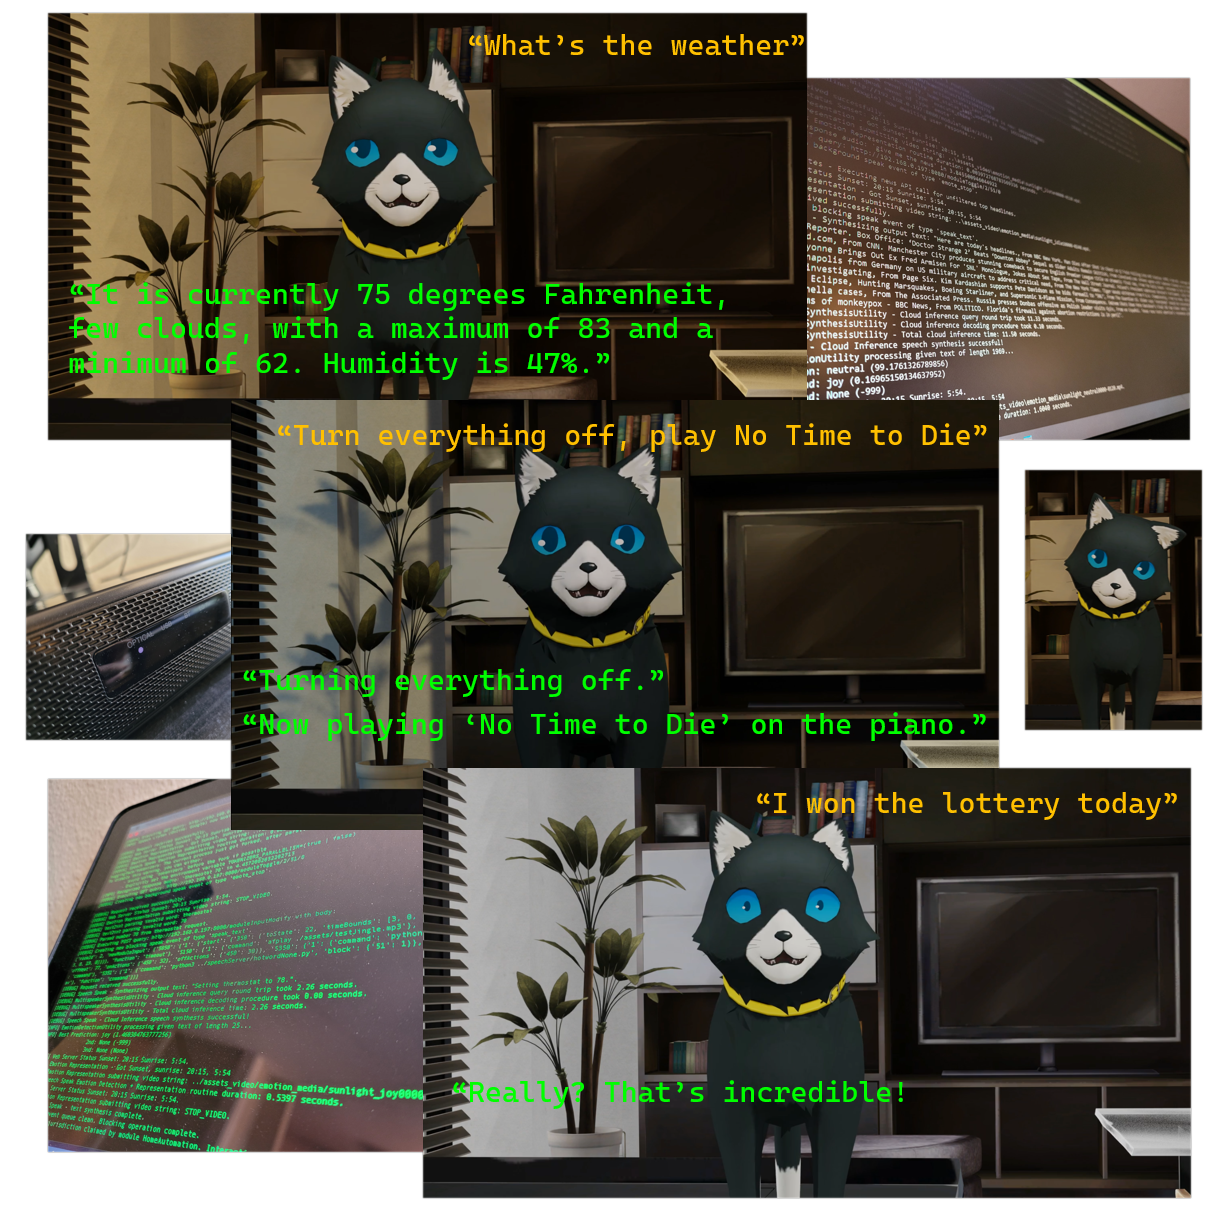
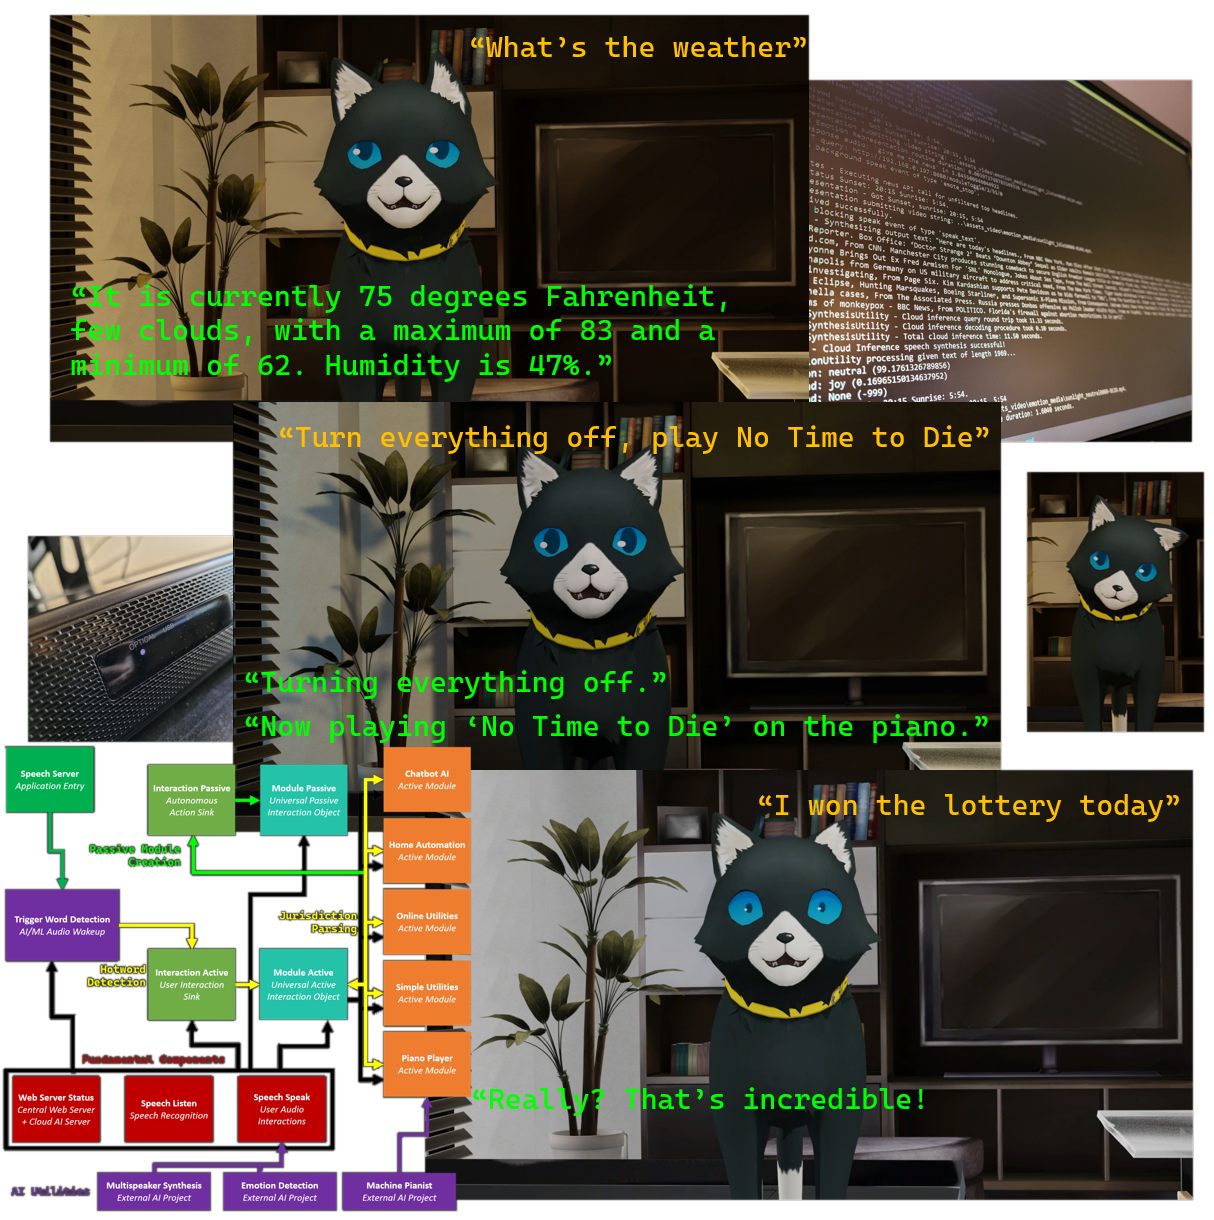
Updated AI Assistant images. Begin AI Assistant page

diff --git a/public/static/libs/app.tsx b/public/static/libs/app.tsx
@@ -1059,7 +1059,49 @@ export class App extends React.Component {
 
                 <div id="overviewText">
                   <h2 id="overviewTextHeader">
-                    A Voice-Based, Modular AI Platform
+                    A Modular Voice-Based AI Platform
+                  </h2>
+
+                  <br/>
+
+                  <div>
+                    The AI Assistant, "Kotakee Companion", is a voice command centric platform intended to be effortlessly scalable with an inherently modular architecture. 
+
+                    The Assistant shines best when hosted in the same local network as the Central Web Server, allowing users to control their home automation system with their voice. 
+                  </div>
+
+                  <br/>
+
+                  <div>
+                    However, web server connectivity is not required, as the Assistant primarily acts as a standalone application with mechanisms allowing it to detect its environment and change enabled features accordingly.
+                  </div>
+
+                  <br/>
+
+                  <div>
+                    The Assistant's architecture was designed with AI and Machine Learning applications mind, with special configurable module features that account for the potentially heavy overhead of startup and operation.
+
+                    Redundancy and verbose logging are also included in order to make sense of what may quickly become a large bundle of hosted modules and features. 
+                  </div>
+
+                  <br/>
+
+                  <div>
+                    Users are encouraged to explore the existing modules and features of the AI Assistant, and to perhaps develop additional modules augmenting the Assistant for their own personal needs and projects.
+                  </div>
+                </div>
+
+                <hr/>
+
+                <div id="subPageImageMidPageMedium">
+                  <img id="subPageImageImg" src={require("../../../assets/aiAssistant1.png").default}/>
+                </div>
+
+                <hr />
+
+                <div id="overviewText">
+                  <h2 id="overviewTextHeader">
+                    Fundamental Components and Modules
                   </h2>
 
                   <br/>

diff --git a/public/static/stylesheets/index.css b/public/static/stylesheets/index.css
@@ -382,6 +382,13 @@ body{
   max-width: 600px;
   padding-top: 10px;
 }
+#subPageImageMidPageMedium{
+  margin: 0 auto;
+  height: fit-content;
+  width: 100%;
+  max-width: 800px;
+  padding-top: 10px;
+}
 #subPageImageImg{
   width:100%;
   height: auto;
